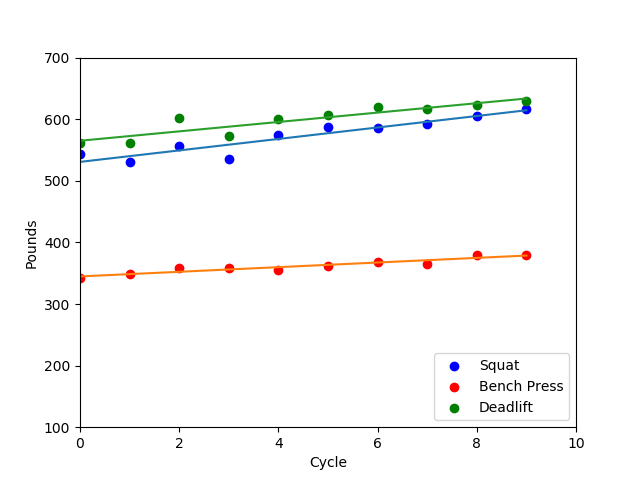
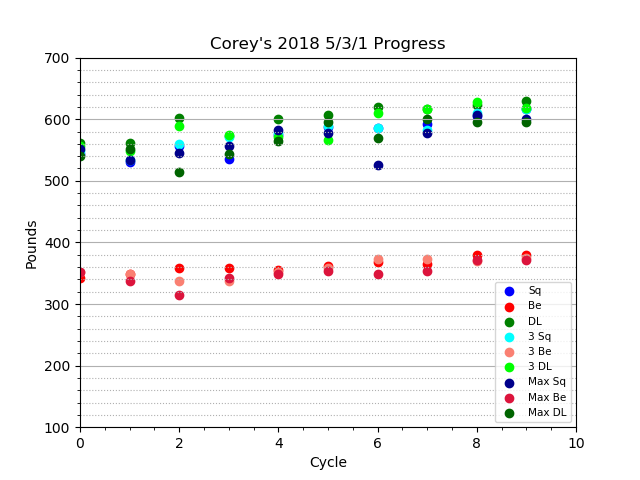
added expanded dataset with all 30 weeks of 1rm

diff --git a/fivethreeonescatter.py b/fivethreeonescatter.py
@@ -7,24 +7,43 @@ from matplotlib import pylab
 from scipy import stats
 
 # Import csv data
-FTO=pd.read_csv('/Users/cgodine/Desktop/gapp/fivemaxest.csv')
+FTO=pd.read_csv('/Users/cgodine/Desktop/gapp/fivethreeone_2018.csv')
 
-# Set axes labels, Plot Data
+# Set axes limits, labels, grid
 x=np.arange(10)
 plt.xlim([0,10])
 plt.ylim([100, 700])
 plt.xlabel('Cycle')
 plt.ylabel('Pounds')
+plt.minorticks_on()
+plt.grid(which='major', axis='y', linestyle='-')
+plt.grid(which='minor', axis='y', linestyle=':')
 
-# Scatter Plots
-plt.scatter(x, FTO.iloc[:,1], color='blue') # Squat
-plt.scatter(x, FTO.iloc[:,2], color='red') # Bench
-plt.scatter(x, FTO.iloc[:,3], color='green') # Deadlift
+# Chart title
+plt.title('Corey\'s 2018 5/3/1 Progress')
+
+# Plot data for 5 wave
+plt.scatter(x, FTO.loc[:,'Squat'], color='blue', label='5 Sq') # Squat
+plt.scatter(x, FTO.loc[:,'Bench'], color='red', label='5 Be') # Bench
+plt.scatter(x, FTO.loc[:,'Deadlift'], color='green', label='5 DL') # Deadlift
+
+# Plot 3 wave data
+plt.scatter(x, FTO.loc[:, 'Squat.1'], color='cyan', label='3 Sq') # Squat
+plt.scatter(x, FTO.loc[:, 'Bench.1'], color='salmon', label='3 Be') # Bench
+plt.scatter(x, FTO.loc[:, 'Deadlift.1'], color='lime', label='3 DL') # Deadlift
+
+# Plot 531 wave
+plt.scatter(x, FTO.loc[:, 'Squat.2'], color='darkblue', label='Max Sq') # Squat
+plt.scatter(x, FTO.loc[:, 'Bench.2'], color='crimson', label='Max Be') # Bench
+plt.scatter(x, FTO.loc[:, 'Deadlift.2'], color='darkgreen', label='Max DL') # Deadlift
 
 # Legend
-plt.legend(['Squat', 'Bench Press', 'Deadlift'], loc='lower right')
+plt.legend(
+    ['Sq', 'Be', 'DL', '3 Sq', '3 Be', '3 DL','Max Sq', 'Max Be', 'Max DL'], 
+    loc='lower right', prop={'size': 7.5}
+    )
 
-# Linear Regressions
+"""# Linear Regressions
 # Squat
 slope1, intercept1, r_value1, p_value1, std_err1 = stats.linregress(x, FTO.iloc[:,1])
 line1=slope1*x+intercept1
@@ -38,7 +57,7 @@ plt.plot(line2)
 # Deadlift 
 slope3, intercept3, r_value3, p_value3, std_err3 = stats.linregress(x, FTO.iloc[:,3])
 line3=slope3*x+intercept3
-plt.plot(line3)
+plt.plot(line3)"""
 
 # plt.show()
 

diff --git a/fivethreeoneplot.py b/fivethreeoneplot.py
@@ -3,21 +3,42 @@ import pandas as pd
 import matplotlib.pyplot as plt
 
 # Import csv data
-FTO=pd.read_csv('/Users/cgodine/Desktop/gapp/fivemaxest.csv')
+FTO=pd.read_csv('/Users/cgodine/Desktop/gapp/fivethreeone_2018.csv')
 
-# Set axes labels, Plot Data
+# Set axes limits, labels, grid
 x=np.arange(10)
 plt.xlim([0,10])
 plt.ylim([100, 700])
 plt.xlabel('Cycle')
 plt.ylabel('Pounds')
+plt.minorticks_on()
+plt.grid(which='major', axis='y', linestyle='-')
+plt.grid(which='minor', axis='y', linestyle=':')
 
+# Chart title
+plt.title('Corey\'s 2018 5/3/1 Progress')
 
-plt.plot(x, FTO.iloc[:,1], color='blue') # Squat
-plt.plot(x, FTO.iloc[:,2], color='red') # Bench
-plt.plot(x, FTO.iloc[:,3], color='green') # Deadlift
+# Plot data for 5 wave
+plt.plot(x, FTO.loc[:,'Squat'], color='blue', label='5 Sq') # Squat
+plt.plot(x, FTO.loc[:,'Bench'], color='red', label='5 Be') # Bench
+plt.plot(x, FTO.loc[:,'Deadlift'], color='green', label='5 DL') # Deadlift
+
+# Plot 3 wave data
+plt.plot(x, FTO.loc[:, 'Squat.1'], color='cyan', label='3 Sq') # Squat
+plt.plot(x, FTO.loc[:, 'Bench.1'], color='salmon', label='3 Be') # Bench
+plt.plot(x, FTO.loc[:, 'Deadlift.1'], color='lime', label='3 DL') # Deadlift
+
+# Plot 531 wave
+plt.plot(x, FTO.loc[:, 'Squat.2'], color='darkblue', label='Max Sq') # Squat
+plt.plot(x, FTO.loc[:, 'Bench.2'], color='crimson', label='Max Be') # Bench
+plt.plot(x, FTO.loc[:, 'Deadlift.2'], color='darkgreen', label='Max DL') # Deadlift
 
 # Legend
-plt.legend(['Squat', 'Bench Press', 'Deadlift'], loc='lower right')
+plt.legend(
+    ['Sq', 'Be', 'DL', '3 Sq', '3 Be', '3 DL','Max Sq', 'Max Be', 'Max DL'], 
+    loc='lower right', prop={'size': 7.5}
+    )
 # Show Plot
-plt.savefig('2018.png')
+# plt.show()
+
+plt.savefig('2018plot.png')
